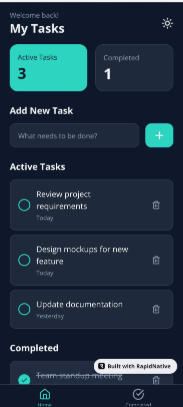
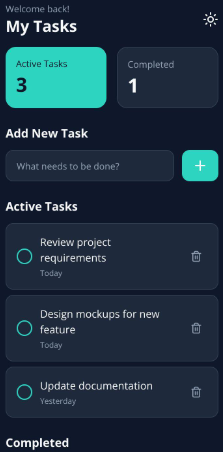
Changed a picture

diff --git a/portfolio/index.html b/portfolio/index.html
@@ -44,7 +44,7 @@
       <li><a href="#computer-science" tabindex="-1">Computer Science</a></li>
       <li><a href="#software-development" tabindex="-1">Software Development</a></li>
       <li><a href="#digital-solutions" tabindex="-1">Digital Solutions</a></li>
-      <li><a href="mailto:bayordenis766@gmail.com" tabindex="-1">Contact me</a></li>
+      <li><a href="mailto:bayordenis766@gmail.com" tabindex="-1">Contact</a></li>
     </ul>
   </div>
 </div>
@@ -283,7 +283,7 @@
               <div class="project-links">
                 <!-- TODO: link the repo once it is public -->
                 <a href="https://bayordenis.github.io/mama-d-kitchen/" target="_blank" rel="noopener" class="btn btn-primary btn-sm">Live Demo ↗</a>
-                <a href="https://github.com/bayordenis" target="_blank" rel="noopener" class="btn btn-outline btn-sm">GitHub</a>
+                <!-- <a href="https://github.com/bayordenis" target="_blank" rel="noopener" class="btn btn-outline btn-sm">GitHub</a> -->
               </div>
             </div>
           </article>
@@ -311,7 +311,7 @@
               </ul>
               <div class="project-links">
                 <!-- TODO: link the repo once it is public -->
-                <a href="https://github.com/bayordenis" target="_blank" rel="noopener" class="btn btn-outline btn-sm">GitHub</a>
+                <!-- <a href="https://github.com/bayordenis" target="_blank" rel="noopener" class="btn btn-outline btn-sm">GitHub</a> -->
               </div>
             </div>
           </article>
@@ -338,7 +338,7 @@
                 <li>Java</li><li>OOP</li><li>Data Structures</li>
               </ul>
               <div class="project-links">
-                <a href="https://github.com/bayordenis" target="_blank" rel="noopener" class="btn btn-outline btn-sm">GitHub</a>
+                <!-- <a href="https://github.com/bayordenis" target="_blank" rel="noopener" class="btn btn-outline btn-sm">GitHub</a> -->
               </div>
             </div>
           </article>
@@ -365,7 +365,7 @@
                 <li>C#</li><li>.NET</li><li>Windows Forms</li>
               </ul>
               <div class="project-links">
-                <a href="https://github.com/bayordenis" target="_blank" rel="noopener" class="btn btn-outline btn-sm">GitHub</a>
+                <!-- <a href="https://github.com/bayordenis" target="_blank" rel="noopener" class="btn btn-outline btn-sm">GitHub</a> -->
               </div>
             </div>
           </article>
@@ -374,7 +374,7 @@
         <p class="empty-state" hidden>No projects in this category yet — check back soon.</p>
 
         <div class="center more-link reveal">
-          <a href="https://github.com/bayordenis" target="_blank" rel="noopener" class="text-link">See all my repositories on GitHub →</a>
+          <!-- <a href="https://github.com/bayordenis" target="_blank" rel="noopener" class="text-link">See all my repositories on GitHub →</a> -->
         </div>
       </div>
     </section>
